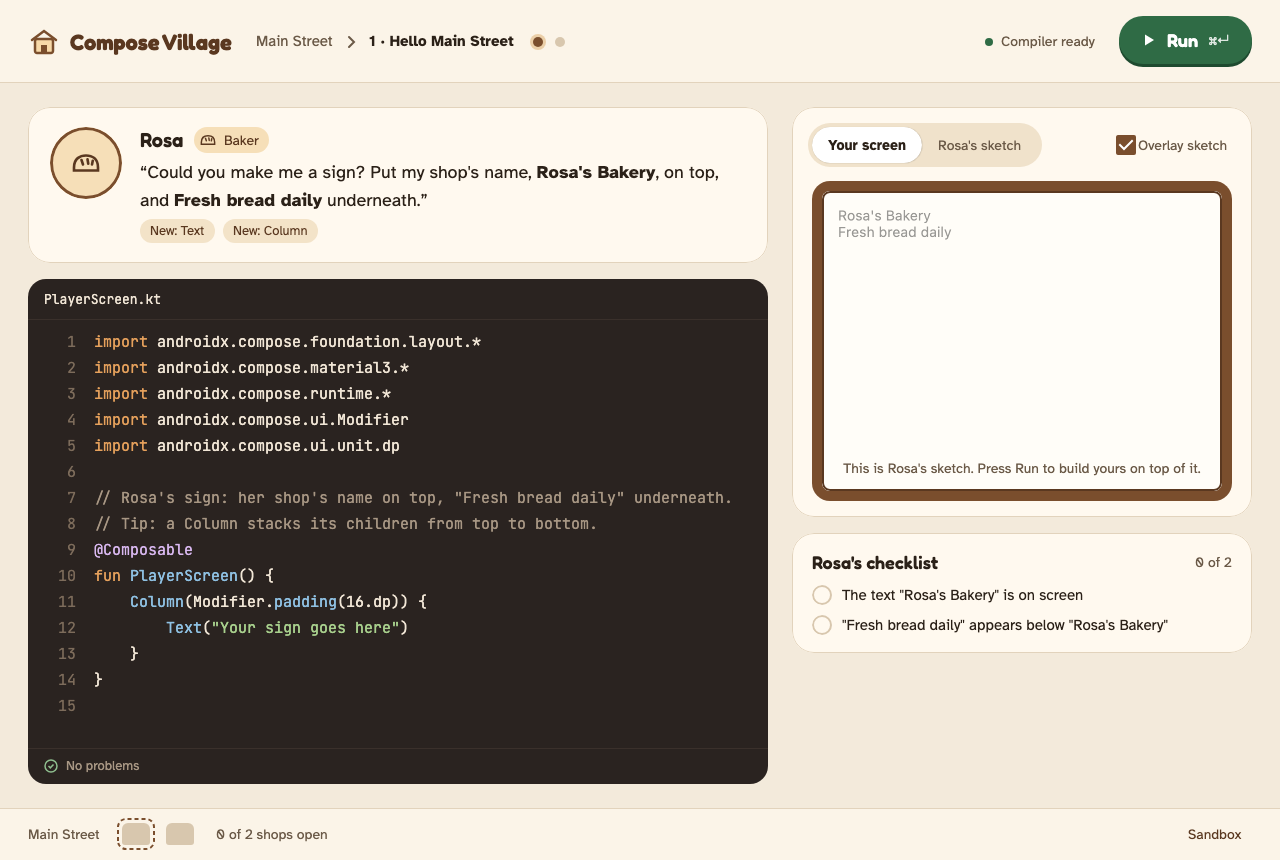
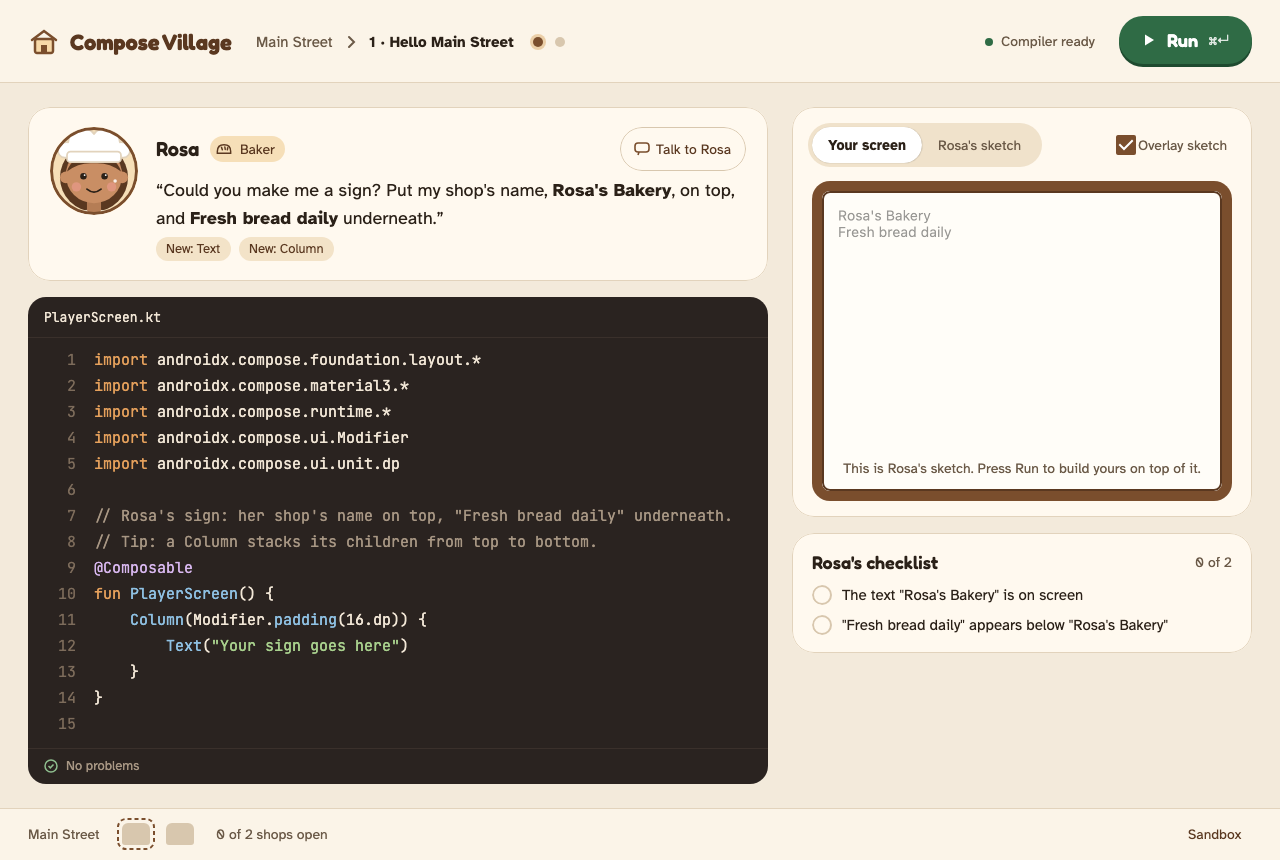
docs: README screenshots for the home screen and talking villagers
Open the README on Main Street, add the welcome back street, Tom's intro and Rosa's
celebration, and refresh the level screenshots with the villager portraits.

diff --git a/README.md b/README.md
@@ -2,11 +2,19 @@
 
 A cozy desktop game for learning Jetpack Compose. The villagers of Main Street each ask for a sign for their shop. You write real Kotlin + Compose code. The game compiles it inside the app, shows your screen in a preview, and checks it against the villager's wishes. Finish a level and their shop lights up on the street.
 
-![A level before the first Run: Rosa's request, the code editor, her sketch faded in the preview, and her checklist](docs/screenshots/level-before-run.png)
+![Main Street on first launch: the welcome, one building per shop with Rosa's marked Start here, the Sandbox at the end of the street, and Rosa's first request](docs/screenshots/home-first-launch.png)
+
+## Main Street
+
+The game opens on Main Street. Each building is a level; the Sandbox is at the end of the street. When you come back, the street shows the shops you've opened and who is still waiting, and **Continue** picks up where you left off. "Main Street" in a level's header takes you back.
+
+![Welcome back: Rosa's Bakery is lit, Tom's Flowers is up next with Continue, and Open shops lists Rosa's stats](docs/screenshots/home-welcome-back.png)
 
 ## How a level plays
 
 Every level is a villager with a request, starter code and a checklist.
+
+![A level before the first Run: Rosa's request, the code editor, her sketch faded in the preview, and her checklist](docs/screenshots/level-before-run.png)
 
 | | |
 |---|---|
@@ -14,6 +22,8 @@ Every level is a villager with a request, starter code and a checklist.
 | **Run** (⌘↵) compiles your code. Each wish on the checklist is then ticked or explained, and the villager reacts. | When every wish comes true, the sign glows, the shop opens and the next villager is waiting. |
 | ![Open Sign: Tom's request introduces Row, Button and onClick, and unlocks the Console with a short explanation](docs/screenshots/panel-unlock.png) | ![Coming back to a finished level: your code, your sign, and a welcome back card with Play again](docs/screenshots/welcome-back.png) |
 | New tools, like the Console, unlock when a level first needs them. | Progress is saved. A finished level reopens with your code and your sign, and you can play it again. |
+| ![Tom introduces himself in a dialogue box beside his talking bust, with Skip intro and 1 of 4](docs/screenshots/villager-intro.png) | ![Rosa celebrates her finished sign: a delighted bust with sparkles beside a glowing dialogue box](docs/screenshots/villager-celebration.png) |
+| Villagers talk. The first time a level opens, its villager introduces themselves and their wish; **Talk to** replays it. | When their shop first opens, they celebrate before the completion card appears. |
 
 The **Sandbox**, at the end of the street, is a free editor with every panel. Compile errors, sandbox violations and runtime crashes point at the line that caused them:
 
